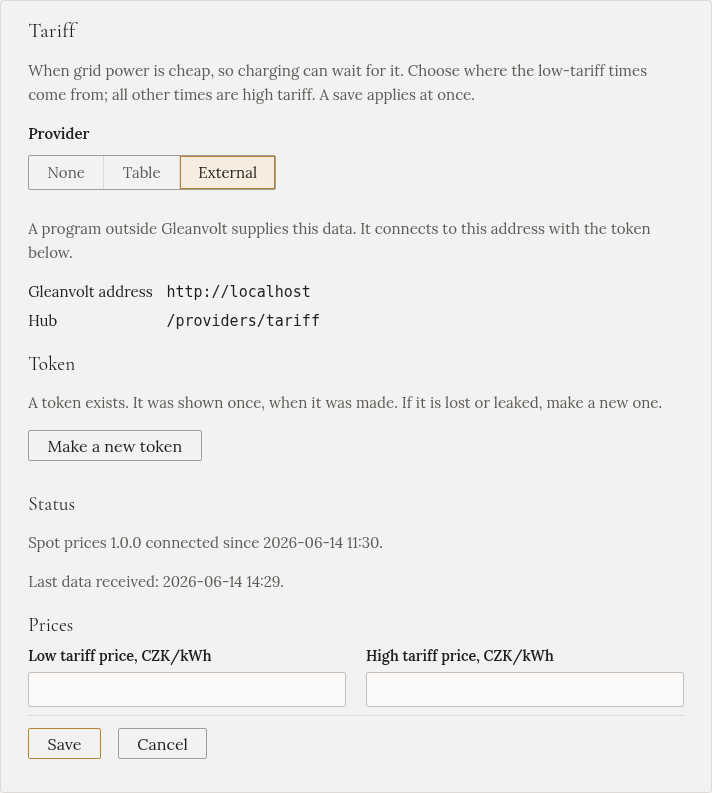
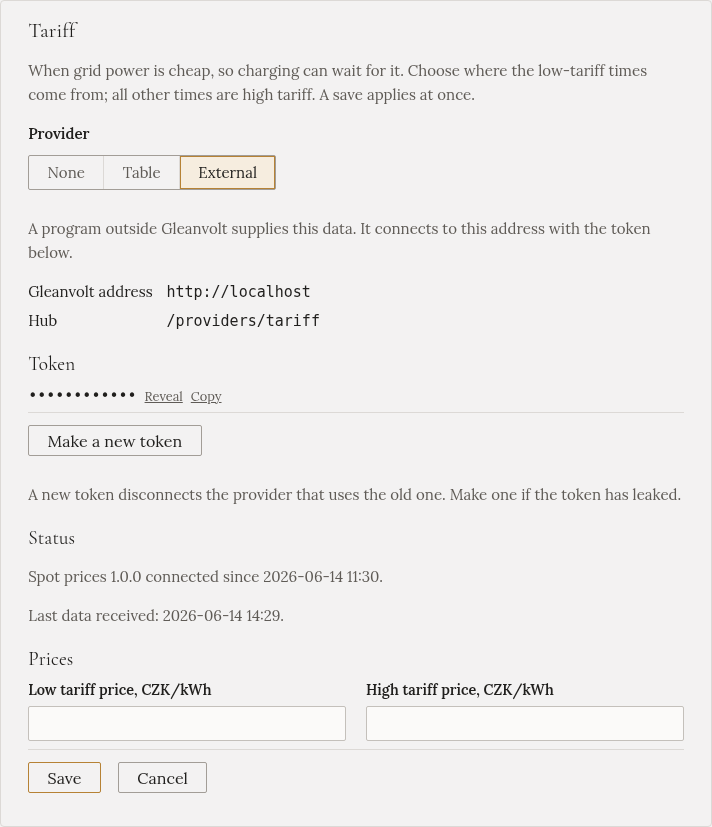
Settings reveals a provider's token, like the API keys (#386)
The token is kept as it is in the secret store instead of only its hash,
and Settings shows it masked with Reveal and Copy to a signed-in owner.
Without a web login it is neither shown nor made; the API never returns it.

diff --git a/tests/Gleanvolt.Web.Tests/ExternalProviderPanelTests.cs b/tests/Gleanvolt.Web.Tests/ExternalProviderPanelTests.cs
@@ -6,7 +6,7 @@ using Gleanvolt.Web.Components;
 namespace Gleanvolt.Web.Tests;
 
 /// <summary>
-/// The external provider panel on Settings (#386): where a provider connects, its token shown once,
+/// The external provider panel on Settings (#386): where a provider connects, its token behind Reveal,
 /// and the session as it changes, without a reload.
 /// </summary>
 public class ExternalProviderPanelTests : BunitContext
@@ -47,28 +47,45 @@ public class ExternalProviderPanelTests : BunitContext
     }
 
     [Fact]
-    public void ANewTokenIsShownOnce()
+    public void ANewTokenIsMaskedAndRevealedOnRequest()
     {
         var panel = RenderPanel();
 
         panel.Find("#external-tariff-token").Click();
 
         Assert.Equal(["tariff"], _providers.TokensMade);
-        Assert.Contains("not shown again", panel.Find("#external-tariff-token-once").TextContent);
+        var token = _providers.Tokens["tariff"];
+        Assert.DoesNotContain(token, panel.Markup);
         Assert.Equal("Make a new token", panel.Find("#external-tariff-token").TextContent.Trim());
+        Assert.Contains("disconnects", panel.Find("#external-tariff-token-replaces").TextContent);
 
-        // A fresh render, as after a reload: the token is gone, only the fact that it exists stays.
-        var again = RenderPanel();
-        Assert.Empty(again.FindAll("#external-tariff-token-once"));
-        Assert.Contains("A token exists", again.Find("#external-tariff-token-state").TextContent);
+        panel.Find("#external-tariff-token-value button").Click();
+        Assert.Contains(token, panel.Find("#external-tariff-token-value code").TextContent);
     }
 
     [Fact]
-    public void WithoutALoginNoTokenCanBeMade()
+    public void TheTokenCanBeRevealedAgainAfterAReload()
     {
+        _providers.Set(new ExternalProviderStatus("tariff", "Tariff", "/providers/tariff", HasToken: true, ExternalProviderState.Waiting));
+        _providers.Tokens["tariff"] = "gvp_kept-in-the-secret-store";
+
+        var panel = RenderPanel();
+        panel.Find("#external-tariff-token-value button").Click();
+
+        Assert.Contains("gvp_kept-in-the-secret-store", panel.Find("#external-tariff-token-value code").TextContent);
+    }
+
+    [Fact]
+    public void WithoutALoginTheTokenIsNeitherShownNorMade()
+    {
+        _providers.Set(new ExternalProviderStatus("tariff", "Tariff", "/providers/tariff", HasToken: true, ExternalProviderState.Waiting));
+        _providers.Tokens["tariff"] = "gvp_kept-in-the-secret-store";
+
         var panel = RenderPanel(readOnly: true);
 
         Assert.Empty(panel.FindAll("#external-tariff-token"));
+        Assert.DoesNotContain("gvp_kept-in-the-secret-store", panel.Markup);
+        Assert.Equal("A token exists.", panel.Find("#external-tariff-token-state").TextContent.Trim());
     }
 
     [Fact]

diff --git a/src/Gleanvolt.Providers.Server/ProviderTokens.cs b/src/Gleanvolt.Providers.Server/ProviderTokens.cs
@@ -5,37 +5,31 @@ using Gleanvolt.Core.Interfaces;
 namespace Gleanvolt.Providers.Server;
 
 /// <summary>
-/// One token per kind (#386), so a leaked token can publish only that kind's data. Made here, shown
-/// once, and kept only as its SHA-256 hash in the secret store: the token is a long random string, so
-/// a plain hash is as good as a slow one, and it makes a check cheap enough for every connection.
+/// One token per kind (#386), so a leaked token can publish only that kind's data. Made here and kept
+/// in the secret store as it is, like the API keys, so Settings can reveal it to a signed-in owner
+/// who is setting up a provider. The store's own protection is what keeps it from the network.
 /// </summary>
 public sealed class ProviderTokens(ISecretStore secrets)
 {
     private const string Prefix = "gvp_";
 
     /// <summary>Whether <paramref name="kind"/> has a token.</summary>
-    public bool Exists(string kind) => secrets.Read(SecretNames.ProviderToken(kind)) is { Length: > 0 };
+    public bool Exists(string kind) => Read(kind) is not null;
+
+    /// <summary><paramref name="kind"/>'s token, or null when it has none.</summary>
+    public string? Read(string kind) => secrets.Read(SecretNames.ProviderToken(kind)) is { Length: > 0 } token ? token : null;
 
     /// <summary>A new token for <paramref name="kind"/>, replacing the old one. Null when the store would not keep it.</summary>
     public string? Create(string kind)
     {
         var token = Prefix + Base64Url(RandomNumberGenerator.GetBytes(32));
-        return secrets.Write(SecretNames.ProviderToken(kind), Hash(token)) ? token : null;
+        return secrets.Write(SecretNames.ProviderToken(kind), token) ? token : null;
     }
 
     /// <summary>Whether <paramref name="token"/> is <paramref name="kind"/>'s.</summary>
-    public bool Matches(string kind, string? token)
-    {
-        if (string.IsNullOrEmpty(token) || secrets.Read(SecretNames.ProviderToken(kind)) is not { Length: > 0 } stored)
-        {
-            return false;
-        }
-
-        return CryptographicOperations.FixedTimeEquals(Encoding.ASCII.GetBytes(Hash(token)), Encoding.ASCII.GetBytes(stored));
-    }
-
-    private static string Hash(string token) =>
-        "sha256:" + Convert.ToHexStringLower(SHA256.HashData(Encoding.UTF8.GetBytes(token)));
+    public bool Matches(string kind, string? token) =>
+        !string.IsNullOrEmpty(token) && Read(kind) is { } stored &&
+        CryptographicOperations.FixedTimeEquals(Encoding.UTF8.GetBytes(token), Encoding.UTF8.GetBytes(stored));
 
     private static string Base64Url(byte[] bytes) =>
         Convert.ToBase64String(bytes).TrimEnd('=').Replace('+', '-').Replace('/', '_');

diff --git a/tests/Gleanvolt.Hosting.Tests/ProviderHubRegistrationTests.cs b/tests/Gleanvolt.Hosting.Tests/ProviderHubRegistrationTests.cs
@@ -89,15 +89,15 @@ public sealed class ProviderHubRegistrationTests : IDisposable
     }
 
     [Fact]
-    public async Task TheTokenIsKeptOnlyAsItsHash()
+    public async Task TheTokenIsKeptInTheSecretStoreSoSettingsCanRevealIt()
     {
         await using var app = Build(("Web:Enabled", "false"), ("Api:Enabled", "true"), ("Api:Keys:test", "an-api-key-0123456789"));
-        var token = await app.Services.GetRequiredService<IExternalProviders>().CreateTokenAsync("tariff");
+        var providers = app.Services.GetRequiredService<IExternalProviders>();
+        var token = await providers.CreateTokenAsync("tariff");
 
-        var stored = app.Services.GetRequiredService<ISecretStore>().Read(SecretNames.ProviderToken("tariff"));
-
-        Assert.StartsWith("sha256:", stored);
-        Assert.DoesNotContain(token, stored);
-        Assert.True(app.Services.GetRequiredService<IExternalProviders>().Find("tariff")!.HasToken);
+        Assert.Equal(token, app.Services.GetRequiredService<ISecretStore>().Read(SecretNames.ProviderToken("tariff")));
+        Assert.Equal(token, providers.ReadToken("tariff"));
+        Assert.Null(providers.ReadToken("no-such-kind"));
+        Assert.True(providers.Find("tariff")!.HasToken);
     }
 }

diff --git a/src/Gleanvolt.Core/Interfaces/IExternalProviders.cs b/src/Gleanvolt.Core/Interfaces/IExternalProviders.cs
@@ -16,11 +16,16 @@ public interface IExternalProviders
     ExternalProviderStatus? Find(string kind) => All.FirstOrDefault(status => string.Equals(status.Kind, kind, StringComparison.OrdinalIgnoreCase));
 
     /// <summary>
-    /// Makes a new token for <paramref name="kind"/> and returns it. Only its hash is kept, so this is
-    /// the one time it can be shown. Replaces the old token and closes the current session, since the
-    /// usual reason to regenerate is a token that leaked.
+    /// Makes a new token for <paramref name="kind"/> and returns it. Replaces the old token and closes
+    /// the current session, since the usual reason to regenerate is a token that leaked.
     /// </summary>
     Task<string> CreateTokenAsync(string kind);
+
+    /// <summary>
+    /// <paramref name="kind"/>'s token, or null when it has none. For Settings to reveal to a
+    /// signed-in owner, like the API keys; never for the API.
+    /// </summary>
+    string? ReadToken(string kind);
 
     /// <summary>Raised when any kind's status changes: a session, its data, its token.</summary>
     event Action? Changed;

diff --git a/tests/Gleanvolt.Web.Tests/Fakes.cs b/tests/Gleanvolt.Web.Tests/Fakes.cs
@@ -1473,16 +1473,23 @@ internal sealed class FakeExternalProviders : IExternalProviders
 
     public List<string> TokensMade { get; } = [];
 
+    /// <summary>The tokens by kind, as the secret store would hold them.</summary>
+    public Dictionary<string, string> Tokens { get; } = [];
+
     public IReadOnlyList<ExternalProviderStatus> All => Statuses;
 
     public Task<string> CreateTokenAsync(string kind)
     {
         TokensMade.Add(kind);
+        var token = "gvp_" + new string((char)('a' + TokensMade.Count % 26), 43);
+        Tokens[kind] = token;
         var index = Statuses.FindIndex(status => status.Kind == kind);
         Statuses[index] = Statuses[index] with { HasToken = true };
         Changed?.Invoke();
-        return Task.FromResult("gvp_" + new string('x', 43));
+        return Task.FromResult(token);
     }
+
+    public string? ReadToken(string kind) => Tokens.GetValueOrDefault(kind);
 
     public void Set(ExternalProviderStatus status)
     {

diff --git a/src/Gleanvolt.Providers.Server/ExternalProviderRegistry.cs b/src/Gleanvolt.Providers.Server/ExternalProviderRegistry.cs
@@ -77,6 +77,8 @@ public sealed class ExternalProviderRegistry : IExternalProviders
     internal ProviderKind? KindAt(PathString path) =>
         _sessions.Select(sessions => sessions.Kind).FirstOrDefault(kind => path.StartsWithSegments(kind.HubPath, StringComparison.OrdinalIgnoreCase));
 
+    public string? ReadToken(string kind) => For(kind) is { } sessions ? Tokens.Read(sessions.Kind.Id) : null;
+
     public async Task<string> CreateTokenAsync(string kind)
     {
         var sessions = For(kind) ?? throw new ArgumentException($"There is no provider kind '{kind}'.", nameof(kind));

diff --git a/tests/Gleanvolt.Web.Screenshots/SettingsScreenshots.cs b/tests/Gleanvolt.Web.Screenshots/SettingsScreenshots.cs
@@ -116,6 +116,7 @@ public sealed class SettingsScreenshots : ScreenshotTest
             "tariff", "Tariff", "/providers/tariff", HasToken: true, ExternalProviderState.Connected,
             ProviderId: "spot-prices", ProviderName: "Spot prices", ProviderVersion: "1.0.0",
             Since: Now.AddHours(-3), LastDataAt: Now.AddMinutes(-1)));
+        _providers.Tokens["tariff"] = "gvp_5mQ2xV9tL4pR8wK1nB7yC3dF6hJ0sA2eG5iU8oZ4qW1";
 
         Capture(RenderPage<PvSystem>("/settings"), "settings-tariff-external", selector: "#tariff-editor");
     }

diff --git a/src/Gleanvolt.Web/NoExternalProviders.cs b/src/Gleanvolt.Web/NoExternalProviders.cs
@@ -10,6 +10,8 @@ internal sealed class NoExternalProviders : IExternalProviders
     public Task<string> CreateTokenAsync(string kind) =>
         throw new InvalidOperationException($"There is no external provider kind '{kind}' in this host.");
 
+    public string? ReadToken(string kind) => null;
+
     public event Action? Changed
     {
         add { }

diff --git a/tests/Gleanvolt.Api.Tests/Fakes.cs b/tests/Gleanvolt.Api.Tests/Fakes.cs
@@ -422,6 +422,8 @@ internal sealed class FakeExternalProviders : IExternalProviders
 
     public Task<string> CreateTokenAsync(string kind) => Task.FromResult("gvp_test");
 
+    public string? ReadToken(string kind) => null;
+
     public event Action? Changed
     {
         add { }

diff --git a/docs/IMPLEMENTATION_LOG.md b/docs/IMPLEMENTATION_LOG.md
@@ -21,7 +21,7 @@ DECISIONS.md.
 - `Gleanvolt.Providers.Server`: `ProviderKind` (with the kind's own is-enabled check),
   `ProviderHub<TClient, TWelcome>` (hello, status, disconnect), `ProviderSessions` (attach, replace,
   refuse, detach, the pending request and its timeout on `TimeProvider`), `ExternalProviderRegistry`
-  (implements Core's new `IExternalProviders`), `ProviderTokens` (SHA-256 hash in the secret store),
+  (implements Core's new `IExternalProviders`), `ProviderTokens` (the token in the secret store, read back for Settings),
   `ProviderTokenAuthentication` (its own scheme and policy), `AddExternalProvider<THub>` and
   `MapExternalProviders`. Enums go over the wire as camelCase strings.
 - `Gleanvolt.Providers.Client` (MIT): `ProviderConnection<TWelcome>` as a `BackgroundService`: a
@@ -40,7 +40,7 @@ DECISIONS.md.
   as it does `/api`.
 - API: `GET /api/v1/providers`; `GET /tariff` gains `origin` and `receivedAt`. The OpenAPI contract
   snapshot is regenerated.
-- Web: `ExternalProviderPanel` (address, hub, token shown once, live status, the last refusal in the
+- Web: `ExternalProviderPanel` (address, hub, token masked with Reveal and Copy, live status, the last refusal in the
   viewer's language), `ExternalTariffPanel` registered for External, and the Overview's tariff line
   naming the provider and, after a disconnect, until when its windows run. Strings in
   `SettingsText`, `ServiceText` and `SharedText`, en and cs.
@@ -75,9 +75,9 @@ DECISIONS.md.
   currency in the welcome, the sample's windows as the timeline, a request answered and one unanswered
   without holding the worker, refused data, enums by name, windows counting after a disconnect until
   they end, and choosing Table closing the session). The real composition root: the hub behind its own
-  token with only the API on, past the password gate with the UI on, and the token stored as a hash.
+  token with only the API on, past the password gate with the UI on, and the token kept in the secret store and read back.
 - Core: each tariff rule, and the External strategy against the shared `TariffProviderContract`.
-- Web: the panel (address, token shown once, read-only without a login, live updates, problems) and
+- Web: the panel (address, token revealed after a reload, neither shown nor made without a login, live updates, problems) and
   the Overview's line.
 - The whole solution's tests pass, in Debug and the Release build. The three packages pack: Contracts
   and Client as MIT with their own README, Server under the repository's licence.

diff --git a/docs/DECISIONS.md b/docs/DECISIONS.md
@@ -29,10 +29,13 @@ provider stall the control loop, and would tie every provider to this repository
 - **One active session per kind.** The same provider id reconnecting replaces its old session (the
   reconnect arrives before the old connection times out); a different provider is refused; a
   disconnect from an already-replaced connection is ignored.
-- **One token per kind**, made on Settings, shown once, stored only as its SHA-256 hash in the secret
-  store. It is checked against the hub's own kind, as a bearer header or as `access_token` in the
-  query, by its own authentication scheme, so the web UI's cookie stays the default for everything
-  else. A plain hash, not a slow one: the token is 256 random bits.
+- **One token per kind**, made on Settings and kept as it is in the secret store, like the API keys,
+  so a signed-in owner can reveal and copy it again behind the same masked control. It was first
+  kept only as a SHA-256 hash and shown once; the owner wanted to read it back when setting up a
+  provider, and the secret store already protects the API keys, which grant more. It is never shown
+  without a web login, and never by the API. It is checked, in constant time, against the hub's own
+  kind, as a bearer header or as `access_token` in the query, by its own authentication scheme, so
+  the web UI's cookie stays the default for everything else.
 - **The kind decides when it is on.** There is no separate enable switch: the tariff is on while
   `External` is the selected tariff, and a save that selects something else closes the session.
 - **The host owns the data.** A publish is checked against fixed rules and stored as one immutable

diff --git a/docs/PROVIDERS.md b/docs/PROVIDERS.md
@@ -47,9 +47,10 @@ what it sends.
 
 ## Tokens
 
-Each kind has its own token, made on Settings with **Make a token**. It is shown once. Gleanvolt keeps
-only its SHA-256 hash, in the secret store, so a lost token is replaced rather than shown again. A
-new token disconnects the provider that used the old one.
+Each kind has its own token, made on Settings with **Make a token**. Gleanvolt keeps it in the secret
+store, like the API keys, and Settings shows it masked, with **Reveal** and **Copy**, to a signed-in
+owner. Without a web login it is never shown. A new token disconnects the provider that used the old
+one.
 
 A token is separate from the web password and the API keys. It can only publish its own kind's data.
 
